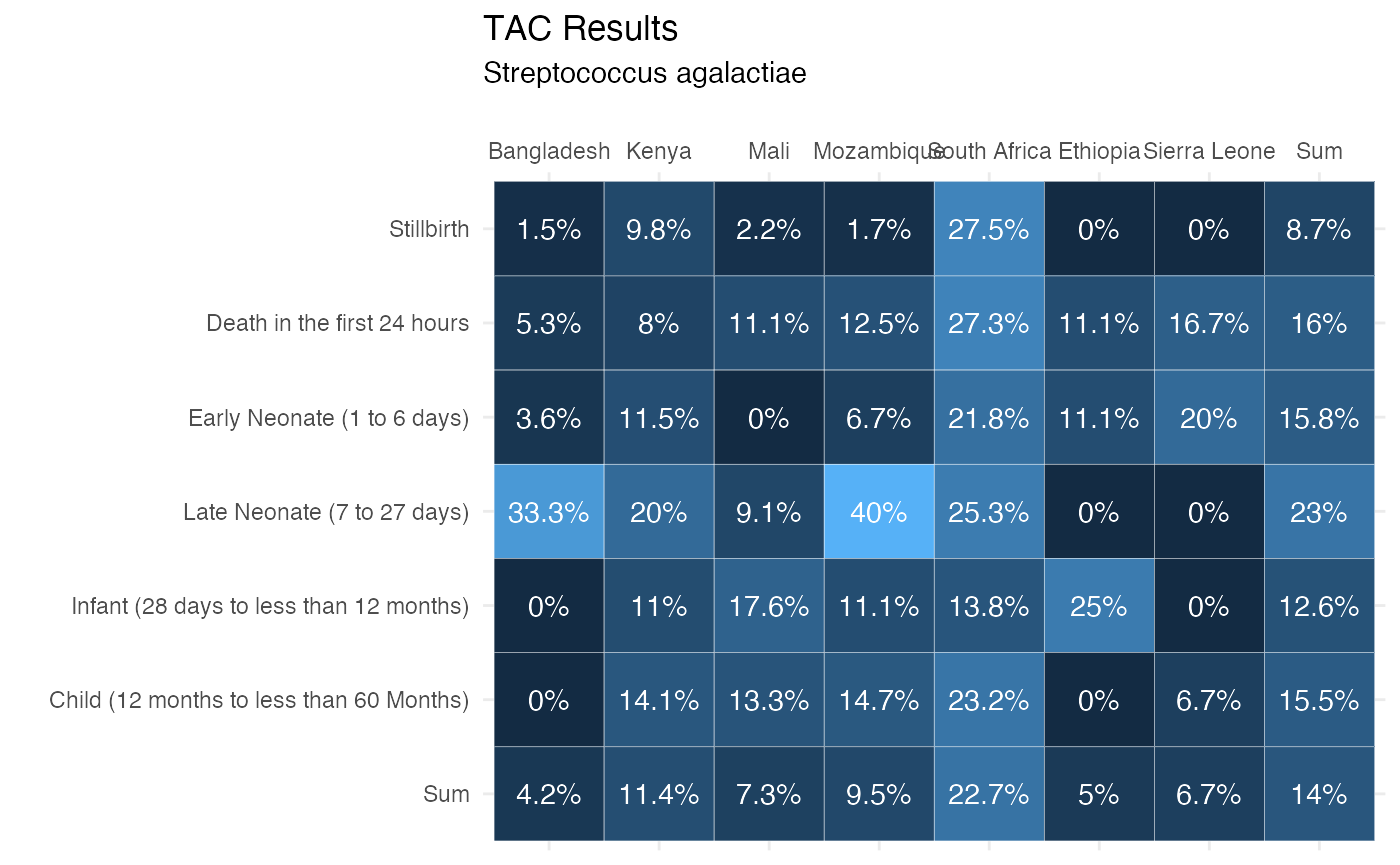
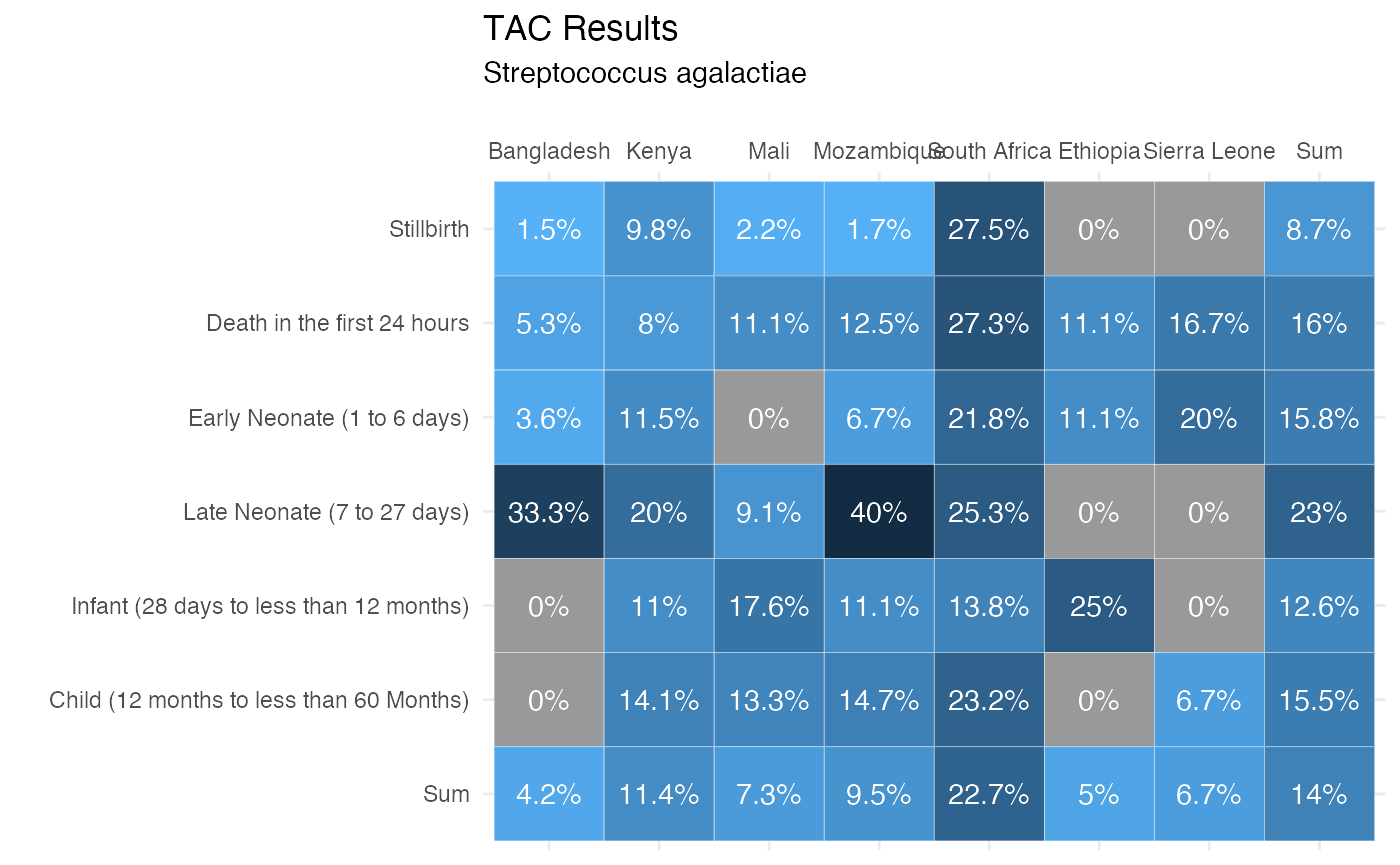
Fix plot documentation and rerun pkgdown

diff --git a/docs/articles/plots_tables.html b/docs/articles/plots_tables.html
@@ -313,7 +313,7 @@ include_text = <span class="st">"number"</span>)
 </pre></div>
 <table class="table gmisc_table">
 <thead><tr>
-<th style="font-weight: 900; border-bottom: 1px solid grey; border-top: 2px solid grey; text-align: left;">
+<th style="font-weight: 900; border-bottom: 1px solid grey; border-top: 2px solid grey; text-align: center;">
 Case Type
 </th>
 <th style="font-weight: 900; border-bottom: 1px solid grey; border-top: 2px solid grey; text-align: center;">
@@ -553,7 +553,7 @@ Total (n=1476)
 </pre></div>
 <table class="table gmisc_table">
 <thead><tr>
-<th style="font-weight: 900; border-bottom: 1px solid grey; border-top: 2px solid grey; text-align: left;">
+<th style="font-weight: 900; border-bottom: 1px solid grey; border-top: 2px solid grey; text-align: center;">
 Case Type
 </th>
 <th style="font-weight: 900; border-bottom: 1px solid grey; border-top: 2px solid grey; text-align: center;">
@@ -793,7 +793,7 @@ Total (n=1476)
 </pre></div>
 <table class="table gmisc_table">
 <thead><tr>
-<th style="font-weight: 900; border-bottom: 1px solid grey; border-top: 2px solid grey; text-align: left;">
+<th style="font-weight: 900; border-bottom: 1px solid grey; border-top: 2px solid grey; text-align: center;">
 Case Type
 </th>
 <th style="font-weight: 900; border-bottom: 1px solid grey; border-top: 2px solid grey; text-align: center;">
@@ -1033,7 +1033,7 @@ Total (n=1476)
 </pre></div>
 <table class="table gmisc_table">
 <thead><tr>
-<th style="font-weight: 900; border-bottom: 1px solid grey; border-top: 2px solid grey; text-align: left;">
+<th style="font-weight: 900; border-bottom: 1px solid grey; border-top: 2px solid grey; text-align: center;">
 Case Type
 </th>
 <th style="font-weight: 900; border-bottom: 1px solid grey; border-top: 2px solid grey; text-align: center;">

diff --git a/docs/reference/heatmap_site_age.html b/docs/reference/heatmap_site_age.html
@@ -153,7 +153,8 @@
   <span class='kw'>x</span>,
   plot_title = <span class='st'>""</span>,
   plot_subtitle = <span class='st'>""</span>,
-  include_text = <span class='st'>"percent"</span>
+  include_text = <span class='st'>"percent"</span>,
+  color_limits = <span class='kw'>NULL</span>
 )</pre>
 
     <h2 class="hasAnchor" id="arguments"><a class="anchor" href="#arguments"></a>Arguments</h2>
@@ -176,6 +177,13 @@ denominator of counts.</p></td>
       <th>include_text</th>
       <td><p>Whether to include the percentages "percent", or
 fraction "fraction". Defaults to NULL which is none.</p></td>
+    </tr>
+    <tr>
+      <th>color_limits</th>
+      <td><p>maps to the limits argument in the fill scale of
+ggplot2. Defaults to NULL which is the max and min of the data. Specify
+the limits in proportions like c(0, 0.25) to have standard limits for
+multiple charts set to 0% to 25%.</p></td>
     </tr>
     </table>
 
